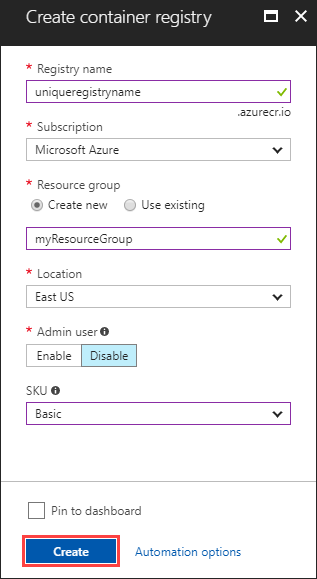
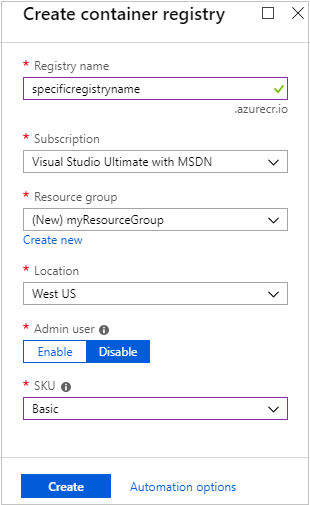
tweaked screenshot

diff --git a/articles/container-registry/container-registry-get-started-portal.md b/articles/container-registry/container-registry-get-started-portal.md
@@ -26,7 +26,7 @@ Select **Create a resource** > **Containers** > **Container Registry**.
 
 ![Creating a container registry in the Azure portal][qs-portal-01]
 
-Enter values for **Registry name** and **Resource group**. The registry name must be unique within Azure, and contain 5-50 alphanumeric characters. Create a new resource group in the `East US` location named `myResourceGroup`, and for **SKU**, select 'Basic'. Select **Create** to deploy the ACR instance.
+Enter values for **Registry name** and **Resource group**. The registry name must be unique within Azure, and contain 5-50 alphanumeric characters. For this quickstart create a new resource group in the `West US` location named `myResourceGroup`, and for **SKU**, select 'Basic'. Select **Create** to deploy the ACR instance.
 
 ![Creating a container registry in the Azure portal][qs-portal-03]
 
